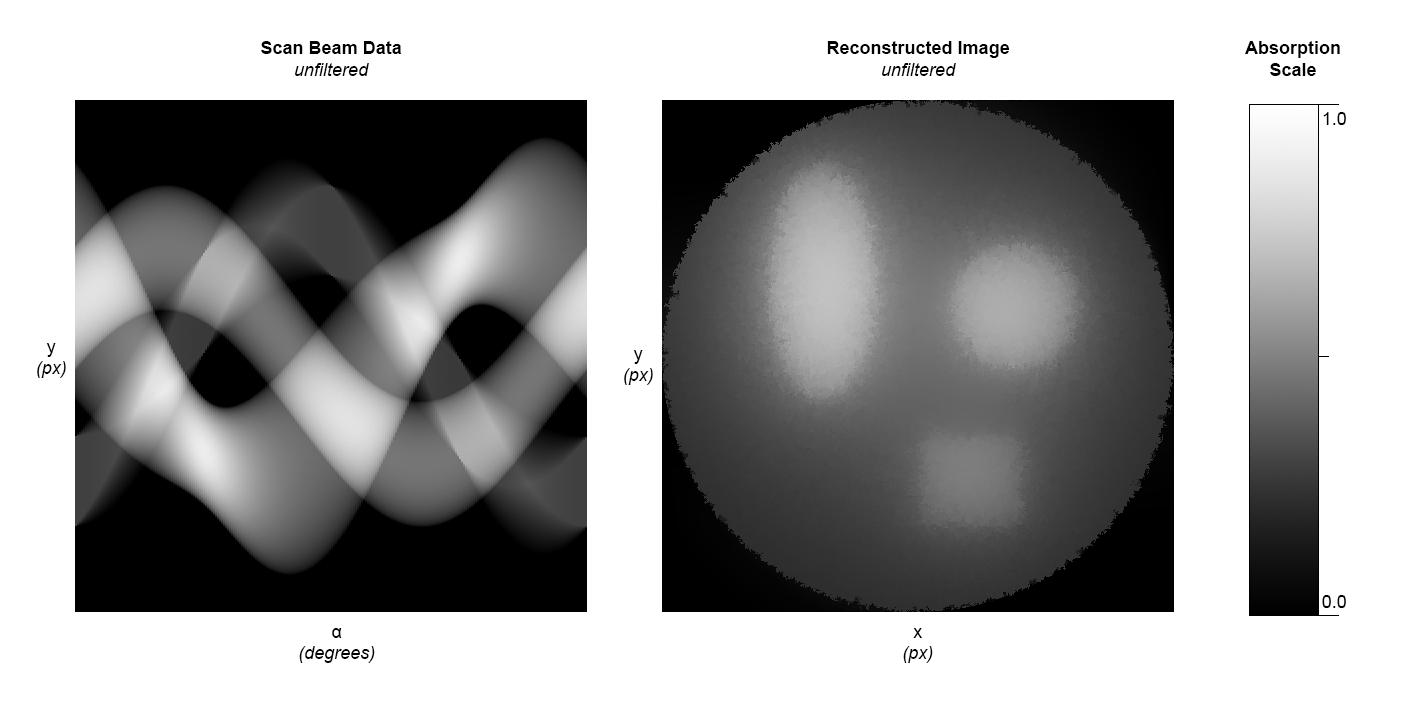
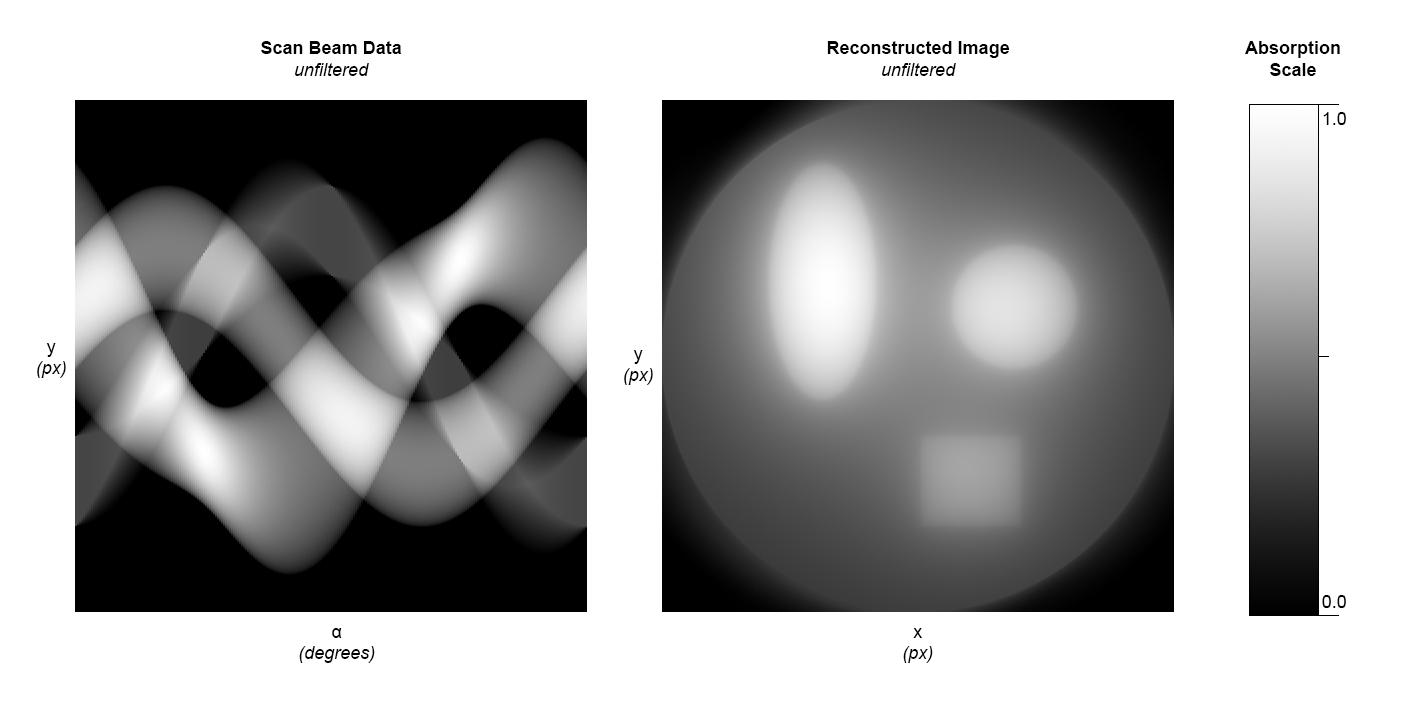
improve performance and fix rotating-artifact

Changed region(s): [[0.4635, 0.1236, 0.8343, 0.7725], [0.4635, 0.5562, 0.8343, 0.8652]]

diff --git a/simple-ct-sim.py b/simple-ct-sim.py
@@ -1,4 +1,5 @@
 import asyncio
+import time
 from PIL import Image
 from PIL.Image import Image as PILImage
 import numpy as np
@@ -19,22 +20,41 @@ async def ct_scan_from_angle(org: PILImage, angle: float) -> np.ndarray:
   return res
 
 
-def parallel_reconstruction(scans: np.ndarray, angle_step: float) -> PILImage:
-  normalized_scans = ((scans / np.amax(scans)) * 255.0) / float(len(scans))
-  img = Image.new("F", (IMG_SIZE, IMG_SIZE), 0)
+async def create_reprojection_array(
+    scl: np.ndarray, theta: float
+) -> np.ndarray:
+  des = np.empty((512, 512))
 
-  for r in range(len(normalized_scans)):
-    # rerotate image every iteration to prevent no rotation if angle is to small
-    img = img.rotate(r * angle_step)
-    for i in range(IMG_SIZE):
-      for j in range(IMG_SIZE):
-        img.putpixel(
-            (i, j),
-            img.getpixel((i, j)) + float(normalized_scans[r, j])
+  for i in range(512):
+    des[i] = scl
+
+  des = Image.fromarray(des)
+  des = des.rotate(theta - 90.0)
+
+  return np.asarray(des)
+
+
+async def parallel_reconstruction(
+    scans: np.ndarray, angle_step: float
+) -> PILImage:
+  scans = scans / np.amax(scans)
+  tasks = []
+
+  for i in range(len(scans)):
+    tasks.append(
+        asyncio.create_task(
+            create_reprojection_array(scans[i], i * angle_step)
         )
-    img = img.rotate(-1.0 * r * angle_step)
+    )
 
-  return img
+  des = np.zeros((IMG_SIZE, IMG_SIZE))
+  for t in tasks:
+    arr = await t
+    des += arr
+
+  des = np.flip(des, axis=1)
+  des = (des / np.amax(des)) * 255.0
+  return Image.fromarray(des)
 
 
 async def simulate_ct_scan(org: Image,
@@ -49,7 +69,8 @@ async def simulate_ct_scan(org: Image,
   for i, task in enumerate(tasks):
     scans[i] = await task
 
-  return scans, parallel_reconstruction(scans, angle_step)
+  des = await parallel_reconstruction(scans, angle_step)
+  return scans, des
 
 
 def ct_scan_thread(org: PILImage, num_pictures: int) -> None:
@@ -58,21 +79,15 @@ def ct_scan_thread(org: PILImage, num_pictures: int) -> None:
   reimg = reimg.convert("L")
   reimg.save(f"export/ct-sim-p{num_pictures}.jpg", "JPEG")
 
-  scbimg = Image.new("F", (IMG_SIZE, IMG_SIZE), 0)
-  for i in range(IMG_SIZE):
-    for j in range(IMG_SIZE):
-      scbimg.putpixel(
-          (i, j),
-          scbimg.getpixel((i, j)) +
-          float(raw[int((float(i) / IMG_SIZE) * len(raw)), j])
-      )
-  scbimg = scbimg.convert("L")
+  raw = (raw / np.amax(raw)) * 255.0
+  scbimg = np.zeros((512, 512))
+  for y in range(IMG_SIZE):
+    for x in range(IMG_SIZE):
+      scbimg[y, x] += float(raw[int((x / 512.0) * num_pictures), y])
+  scbimg = Image.fromarray(scbimg).convert("L")
   scbimg.save(f"export/ct-scb-p{num_pictures}.jpg", "JPEG")
 
-  reimg = reimg.convert("RGB")
-  scbimg = scbimg.convert("RGB")
   compimg = Image.open("import/graph.png").convert("RGB")
-
   compimg.paste(scbimg, (75, 100))
   compimg.paste(reimg, (662, 100))
   compimg.save(f"export/graph-p{num_pictures}.jpg", "JPEG")
@@ -81,9 +96,11 @@ def ct_scan_thread(org: PILImage, num_pictures: int) -> None:
 def main() -> None:
   org = Image.open("import/org.png").convert("L")
   threads = []
-  #runs = [1, 3, 4, 5, 8, 12, 16, 24, 32, 48, 64, 128, 256, 360, 720]
-  runs = [1, 3, 4, 5, 8, 12, 16, 24, 32, 48, 64, 128, 256]
+  runs = [1, 3, 4, 5, 8, 12, 16, 24, 32, 48, 64, 128, 256, 360, 720]
+  #runs = [1, 3, 4, 5, 8, 12, 16, 24, 32, 48, 64, 128, 256]
+  #runs = [24]
 
+  t0 = time.process_time()
   for i in runs:
     t = threading.Thread(target=ct_scan_thread, args=(
         org,
@@ -94,6 +111,7 @@ def main() -> None:
 
   for t in threads:
     t.join()
+  print(time.process_time() - t0)
 
 
 if __name__ == "__main__":
